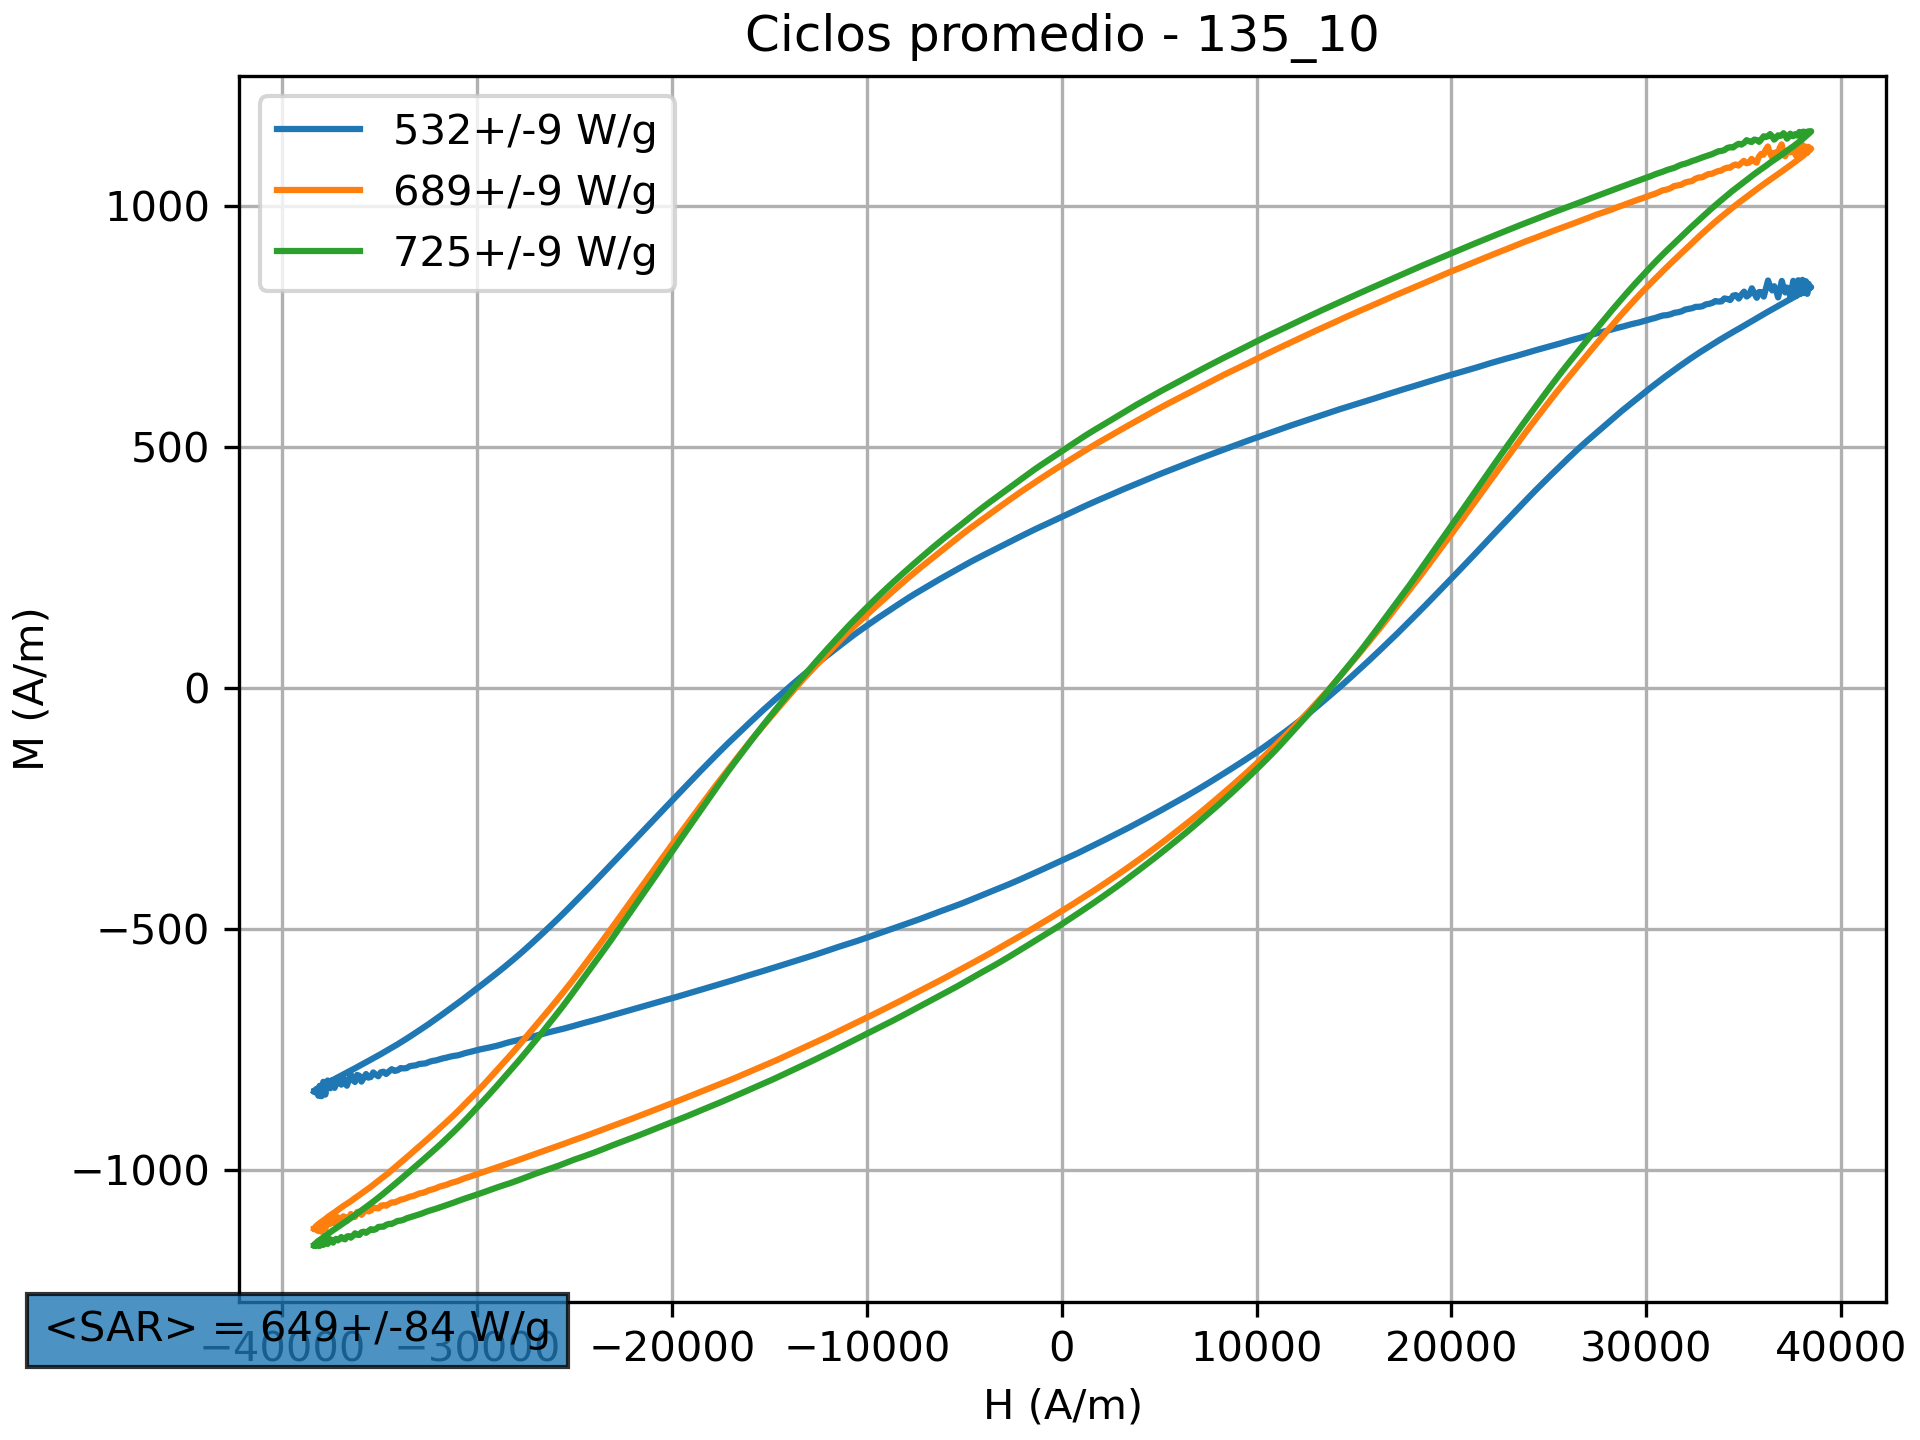
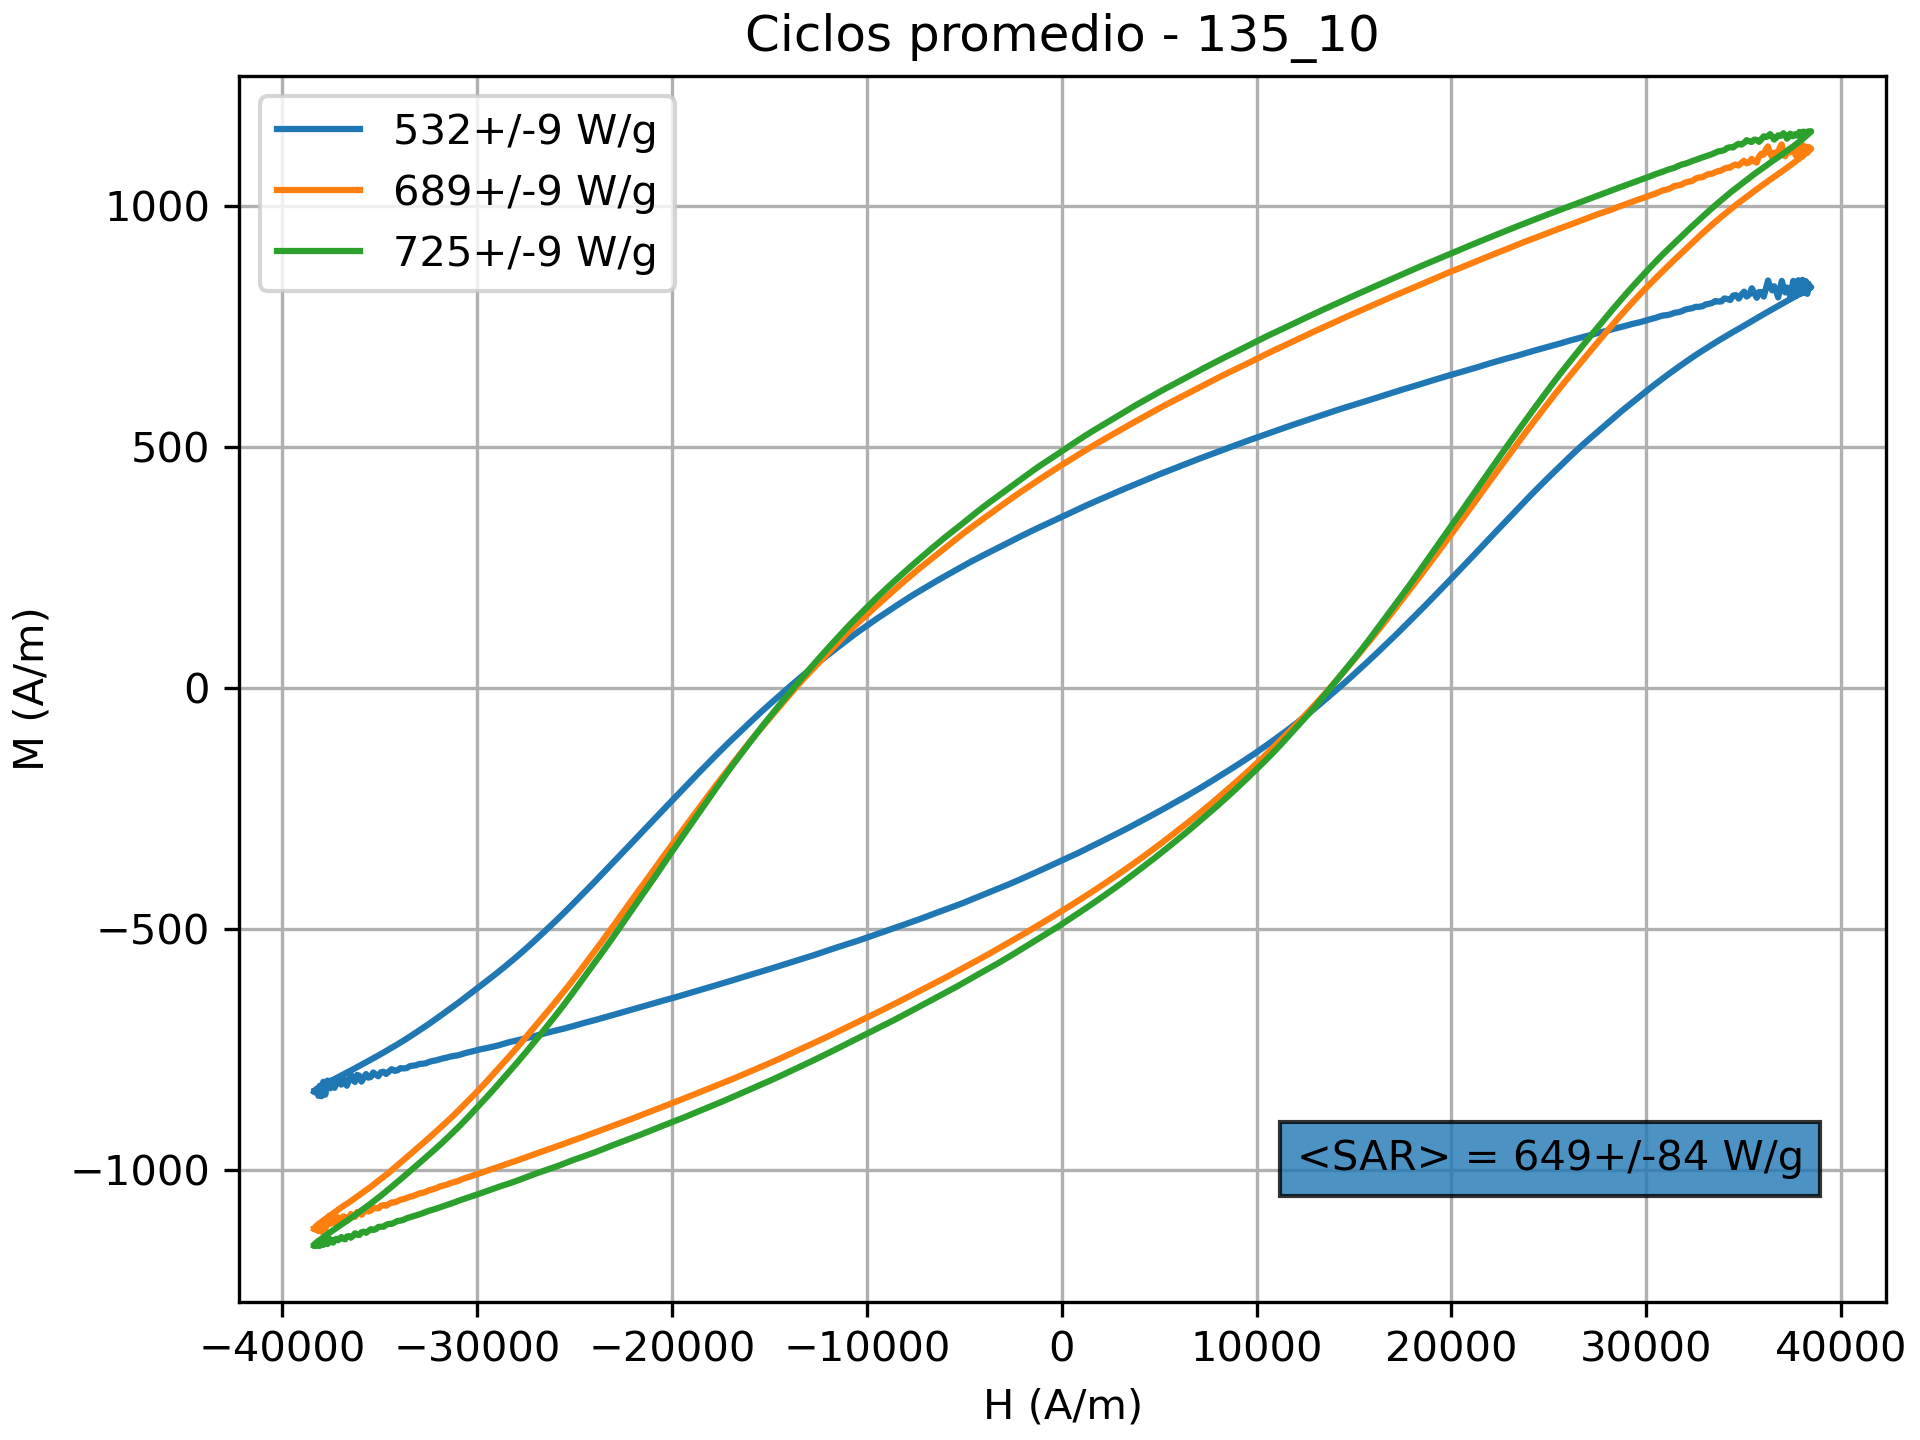
detalles del grafico

Changed region(s): [[0.0, 0.875, 0.3125, 0.9688], [0.6562, 0.75, 0.9688, 0.8438]]

diff --git a/Tau.py b/Tau.py
@@ -223,7 +223,7 @@ for i,fp in enumerate(filepaths_1):
     t,H,M,metadata=lector_ciclos(fp)
     ax1.plot(H,M,label=f'{SARs_1[i]:1f} W/g')
 
-ax1.text(0.95,0.1,f'<SAR> = {SAR1:.2uf} W/g',bbox=dict(alpha=0.8),transform=ax.transAxes,ha='right', va='bottom')
+ax1.text(0.95,0.1,f'<SAR> = {SAR1:.2uf} W/g',bbox=dict(alpha=0.8),transform=ax1.transAxes,ha='right', va='bottom')
 ax1.set_ylabel('M (A/m)')
 ax1.set_xlabel('H (A/m)')
 ax1.legend()
@@ -279,7 +279,7 @@ for i,fp in enumerate(filepaths_2):
     t,H,M,metadata=lector_ciclos(fp)
     ax1.plot(H,M,label=f'{SARs_2[i]:1f} W/g')
 
-ax1.text(0.95,0.1,f'<SAR> = {SAR2:.2uf} W/g',bbox=dict(alpha=0.8),transform=ax.transAxes,ha='right', va='bottom')
+ax1.text(0.95,0.1,f'<SAR> = {SAR2:.2uf} W/g',bbox=dict(alpha=0.8),transform=ax1.transAxes,ha='right', va='bottom')
 ax1.set_ylabel('M (A/m)')
 ax1.set_xlabel('H (A/m)')
 ax1.legend()
@@ -392,7 +392,7 @@ fig2,ax2=plt.subplots(constrained_layout=True)
 for i,fp in enumerate(filepaths_4):
     t,H,M,metadata=lector_ciclos(fp)
     ax2.plot(H,M,label=f'{SARs_4[i]:1f} W/g')
-ax2.text(0.95,0.1,f'<SAR> = {SAR4:.2uf} W/g',bbox=dict(alpha=0.8),transform=ax.transAxes,ha='right', va='bottom')
+ax2.text(0.95,0.1,f'<SAR> = {SAR4:.2uf} W/g',bbox=dict(alpha=0.8),transform=ax2.transAxes,ha='right', va='bottom')
 ax2.set_ylabel('M (A/m)')
 ax2.set_xlabel('H (A/m)')
 ax2.legend()
@@ -444,32 +444,56 @@ plt.suptitle('Ni=0 @citrato - 4ta repeticion',fontsize=14)
 plt.savefig('tau_Ni0_D_recubierta.png',dpi=300,facecolor='w')
 
 #%% PLOTEO TODOS LOS CICLOS PROMEDIO
-fig,(ax1,ax2)=plt.subplots(ncols=2,figsize=(10,4),constrained_layout=True)
+from matplotlib.colors import LinearSegmentedColormap
+# Crear paletas de colores basadas en azul, naranja, verde y rojo
+blue_palette = LinearSegmentedColormap.from_list("blue_palette", ["lightblue", "blue"])
+orange_palette = LinearSegmentedColormap.from_list("orange_palette", ["moccasin", "orange"])
+green_palette = LinearSegmentedColormap.from_list("green_palette", ["lightgreen", "green"])
+red_palette = LinearSegmentedColormap.from_list("red_palette", ["lightcoral", "red"])
 
-for i,fp in enumerate(filepaths_1):
-    t,H,M,metadata=lector_ciclos(fp)
-    ax1.plot(H,M,color='tab:blue',label=identif_1)
+fig, (ax1, ax2) = plt.subplots(ncols=2, figsize=(10, 4), constrained_layout=True)
 
-for i,fp in enumerate(filepaths_2):
-    t,H,M,metadata=lector_ciclos(fp)
-    ax2.plot(H,M,color='tab:orange',label=identif_2)
+# Número de ciclos en cada conjunto (ajusta esto según tus datos)
+num_cycles_1 = len(filepaths_1)
+num_cycles_2 = len(filepaths_2)
+num_cycles_3 = len(filepaths_3)
+num_cycles_4 = len(filepaths_4)
 
-for i,fp in enumerate(filepaths_3):
-    t,H,M,metadata=lector_ciclos(fp)
-    ax1.plot(H,M,color='tab:green',label=identif_3)
+# Crear listas de colores para cada conjunto
+colors_1 = blue_palette(np.linspace(0, 1, num_cycles_1))
+colors_2 = orange_palette(np.linspace(0, 1, num_cycles_2))
+colors_3 = green_palette(np.linspace(0, 1, num_cycles_3))
+colors_4 = red_palette(np.linspace(0, 1, num_cycles_4))
 
-for i,fp in enumerate(filepaths_4):
-    t,H,M,metadata=lector_ciclos(fp)
-    ax2.plot(H,M,color='tab:red',label=identif_4)
-ax1.set_title('38 kA/m')    
+for i, fp in enumerate(filepaths_1):
+    t, H, M, metadata = lector_ciclos(fp)
+    ax1.plot(H, M, color=colors_1[i], label=f'{identif_1[:3]}_{i}')
+
+for i, fp in enumerate(filepaths_2):
+    t, H, M, metadata = lector_ciclos(fp)
+    ax2.plot(H, M, color=colors_2[i], label=f'{identif_2[:3]}_{i}')
+
+for i, fp in enumerate(filepaths_3):
+    t, H, M, metadata = lector_ciclos(fp)
+    ax1.plot(H, M, color=colors_3[i], label=f'{identif_3[:3]}_{i}')
+
+for i, fp in enumerate(filepaths_4):
+    t, H, M, metadata = lector_ciclos(fp)
+    ax2.plot(H, M, color=colors_4[i], label=f'{identif_4[:3]}_{i}')
+
+ax1.set_title('38 kA/m')
 ax2.set_title('57 kA/m')
-# plt.show()
-for ax in [ax1,ax2]:
+
+ax1.set_xticks([-38e3, 0, 38e3])
+ax2.set_xticks([-57e3, -38e3, 0, 38e3, 57e3])
+
+for ax in [ax1, ax2]:
     ax.set_xlabel('H (A/m)')
     ax.set_ylabel('M (A/m)')
     ax.legend()
     ax.grid()
-plt.suptitle('Ciclos promedio',fontsize=14)
-plt.savefig('ciclos_promedio_all.png',dpi=300)
+
+plt.suptitle('Ciclos promedio - Ni=0 @citrato',fontsize=14)
+plt.savefig('ciclos_promedio_all_Ni0_recubiertas.png',dpi=300)
 
 # %%
